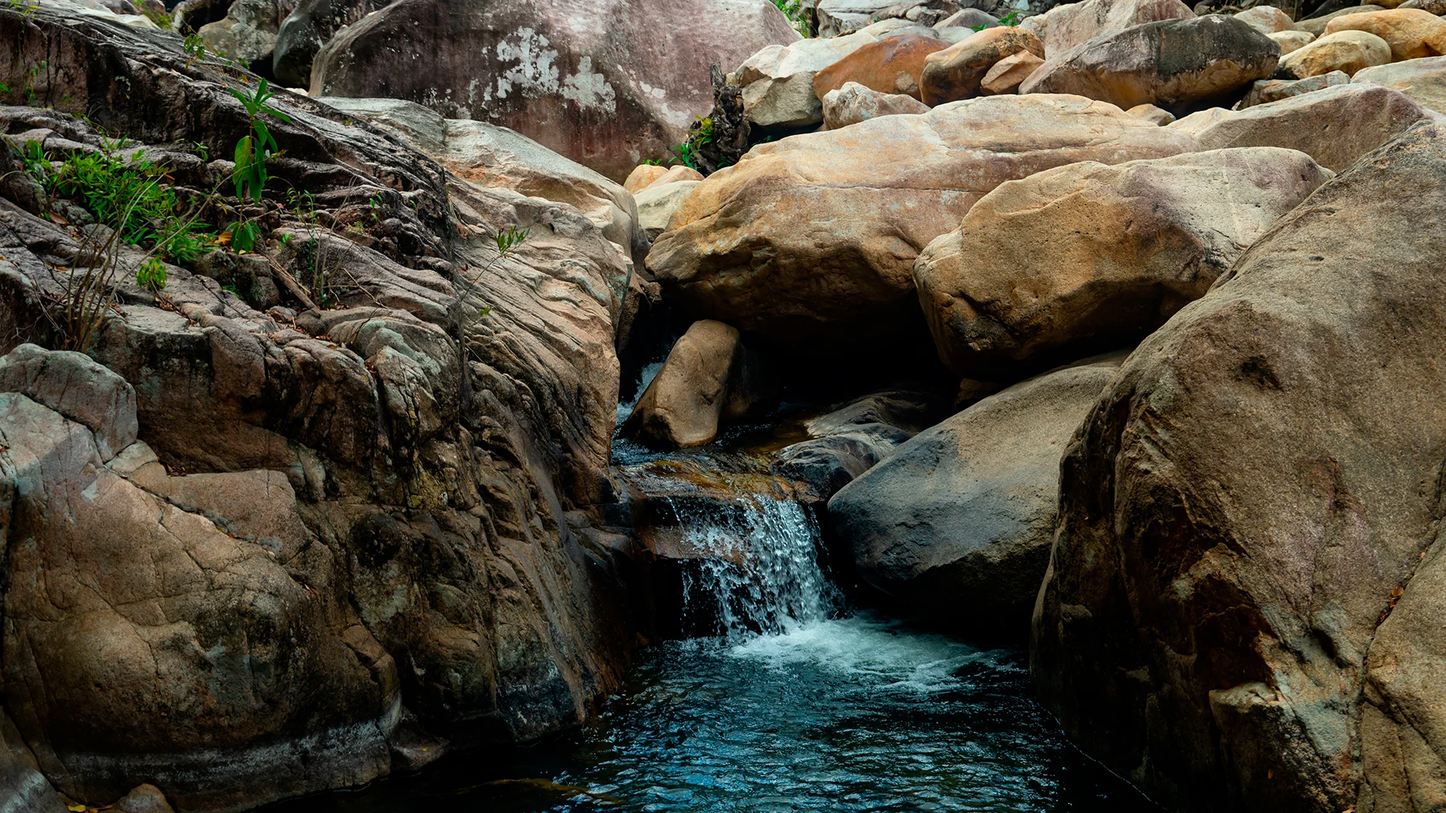
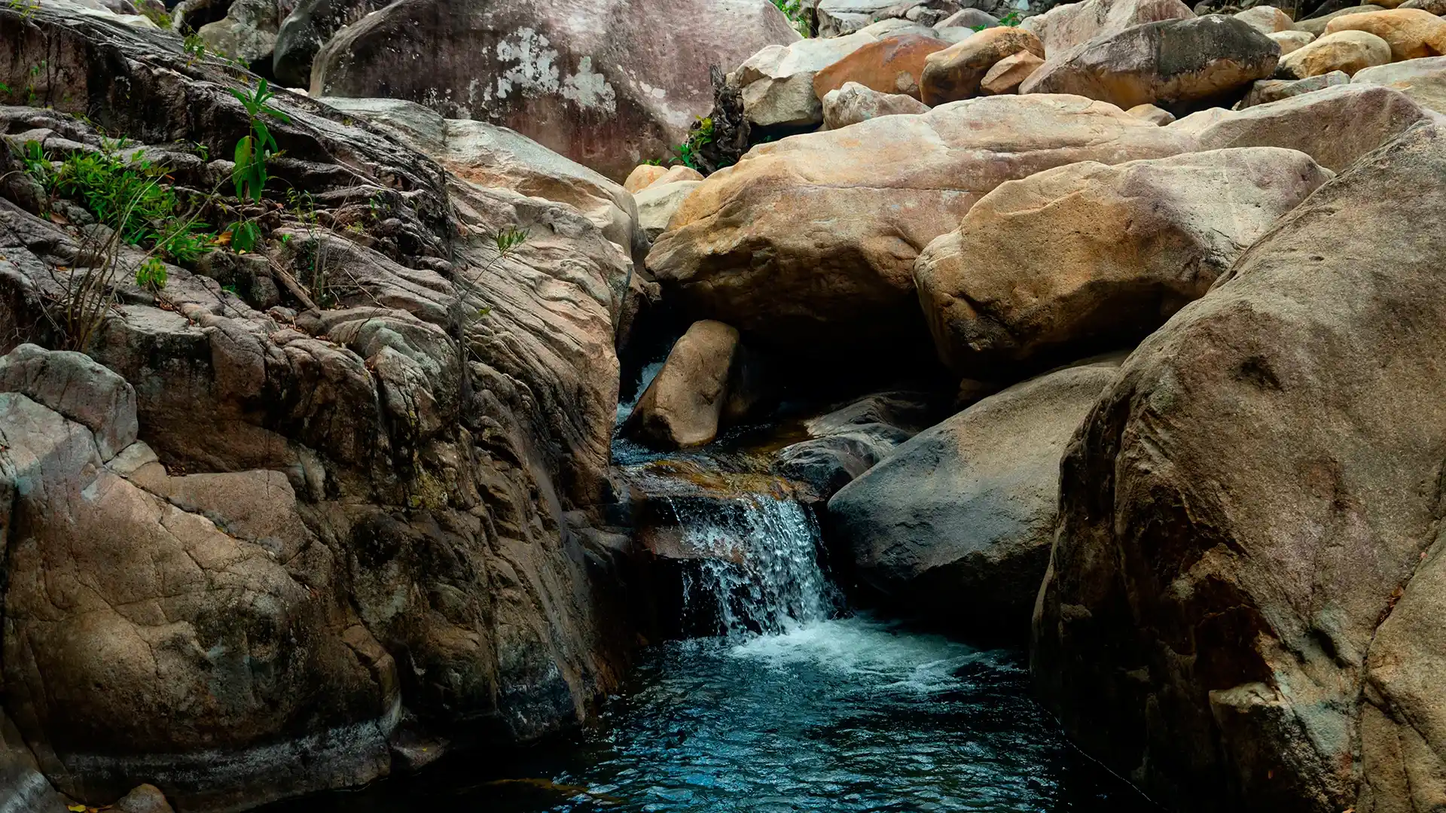
fix: отмена функции загрузки изображения в кэш + компресия изображений

diff --git a/pages/index.js b/pages/index.js
@@ -55,7 +55,6 @@ class RelaxPlayer {
     this.initElements();
     this.bindEvents();
     this.setupAudio();
-    this.preloadImages();
 
     if (this.isIOS) {
       if (this.volumeSlider) this.volumeSlider.style.display = "none";
@@ -107,14 +106,6 @@ class RelaxPlayer {
 
     // Загружаем первый звук и фон
     this.handleContentChange();
-  }
-
-  // Загрузка всех изображений
-  preloadImages() {
-    Object.values(this.backgroundsImagesMap).forEach((src) => {
-      const img = new Image();
-      img.src = src;
-    });
   }
 
   unlockAudio() {
